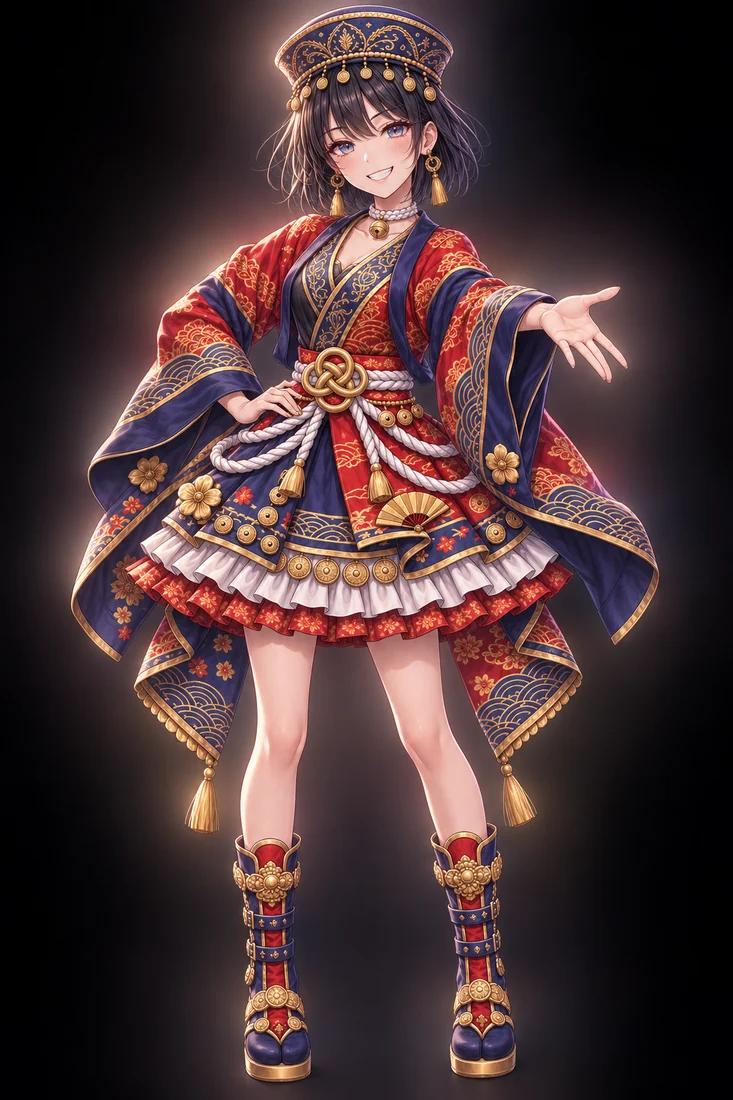
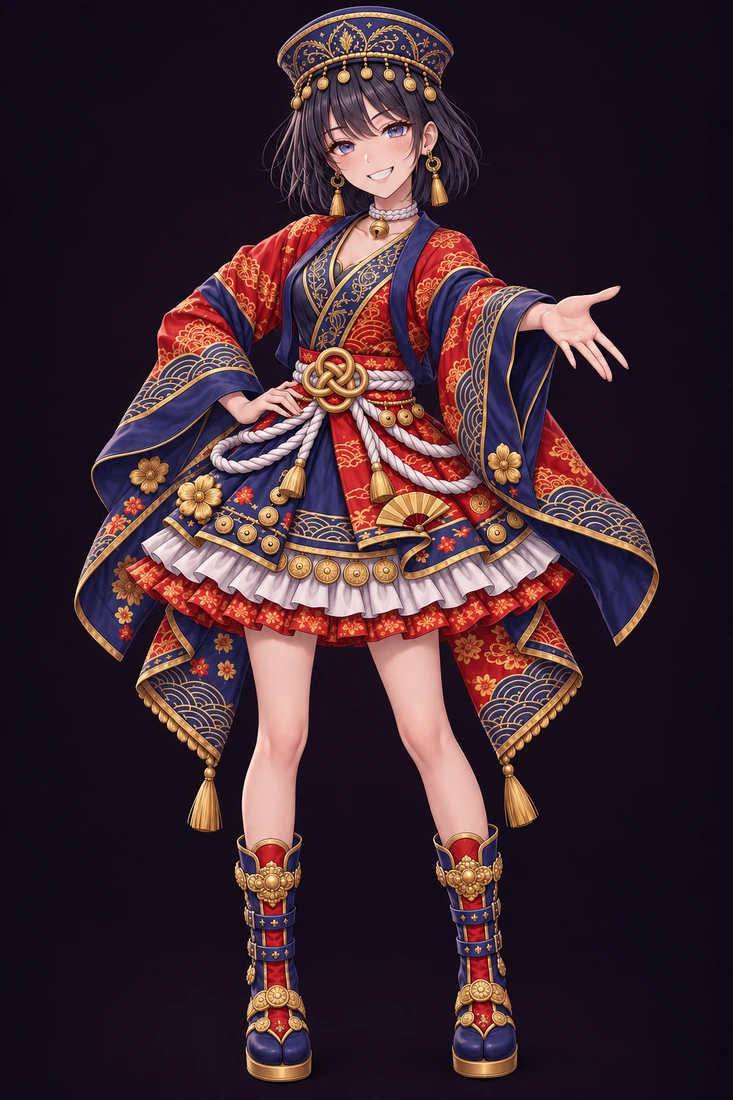
Unify all 16 idol portraits with soft lighting and restrained highlights

diff --git a/index.html b/index.html
@@ -621,7 +621,7 @@ let state=null,team=['kayo','machi','natsume'],leader='kayo',firstMode='random',
 let saved=null;try{saved=JSON.parse(localStorage.getItem(SAVE)||'null');if(saved?.version!==1||saved?.winner!==null)saved=null;}catch{}
 // Local artwork: six members, eighteen songs and ten events.
 const ARTWORK = {
-  "idol-ayame": "assets/art/idol-ayame.webp",
+  "idol-ayame": "assets/art/idol-ayame.webp?v=20261108-light",
   "song-ayame-1": "assets/art/song-ayame-1.webp",
   "song-ayame-2": "assets/art/song-ayame-2.webp",
   "song-ayame-3": "assets/art/song-ayame-3.webp",
@@ -638,45 +638,45 @@ const ARTWORK = {
   "event-scandal": "assets/art/event-scandal.webp",
   "event-buzz": "assets/art/event-buzz.webp",
 
-  "idol-nina": "assets/art/idol-nina.webp",
+  "idol-nina": "assets/art/idol-nina.webp?v=20261108-light",
   "song-nina-1": "assets/art/song-nina-1.webp",
   "song-nina-2": "assets/art/song-nina-2.webp",
   "song-nina-3": "assets/art/song-nina-3.webp",
   "event-nina": "assets/art/event-nina.webp",
   "item-teddy": "assets/art/item-teddy.webp",
 
-  "idol-moe": "assets/art/idol-moe.webp",
+  "idol-moe": "assets/art/idol-moe.webp?v=20261108-light",
   "song-moe-1": "assets/art/song-moe-1.webp",
   "song-moe-2": "assets/art/song-moe-2.webp",
   "song-moe-3": "assets/art/song-moe-3.webp",
   "event-moe": "assets/art/event-moe.webp",
-  "idol-hikari": "assets/art/idol-hikari.webp",
+  "idol-hikari": "assets/art/idol-hikari.webp?v=20261108-light",
   "song-hikari-1": "assets/art/song-hikari-1.webp",
   "song-hikari-2": "assets/art/song-hikari-2.webp",
   "song-hikari-3": "assets/art/song-hikari-3.webp",
   "event-hikari": "assets/art/event-hikari.webp",
-  "idol-aya": "assets/art/idol-aya.webp",
+  "idol-aya": "assets/art/idol-aya.webp?v=20261108-light",
   "song-aya-1": "assets/art/song-aya-1.webp",
   "song-aya-2": "assets/art/song-aya-2.webp",
   "song-aya-3": "assets/art/song-aya-3.webp",
   "event-aya": "assets/art/event-aya.webp",
-  "idol-akina": "assets/art/idol-akina.webp",
+  "idol-akina": "assets/art/idol-akina.webp?v=20261108-light",
   "song-akina-1": "assets/art/song-akina-1.webp?v=akina-pretext-1",
   "song-akina-2": "assets/art/song-akina-2.webp?v=akina-pretext-1",
   "song-akina-3": "assets/art/song-akina-3.webp?v=akina-pretext-1",
   "event-akina": "assets/art/event-akina.webp?v=akina-pretext-1",
-  "idol-emi": "assets/art/idol-emi.webp",
+  "idol-emi": "assets/art/idol-emi.webp?v=20261108-light",
   "song-emi-1": "assets/art/song-emi-1.webp",
   "song-emi-2": "assets/art/song-emi-2.webp",
   "song-emi-3": "assets/art/song-emi-3.webp",
   "event-emi": "assets/art/event-emi.webp",
   "fan-believer": "assets/art/fan-believer.webp",
   "fan-anti": "assets/art/fan-anti.webp",
-  "idol-haru": "assets/art/idol-haru.webp",
+  "idol-haru": "assets/art/idol-haru.webp?v=20261108-light",
   "event-haru": "assets/art/event-haru.webp",
-  "idol-hakka": "assets/art/idol-hakka.webp",
+  "idol-hakka": "assets/art/idol-hakka.webp?v=20261108-light",
   "event-hakka": "assets/art/event-hakka.webp",
-  "idol-homura": "assets/art/idol-homura.webp",
+  "idol-homura": "assets/art/idol-homura.webp?v=20261108-light",
   "event-homura": "assets/art/event-homura.webp",
   "song-haru-1": "assets/art/song-haru-1.webp",
   "song-haru-2": "assets/art/song-haru-2.webp",
@@ -722,12 +722,12 @@ const ARTWORK = {
   "event-switch": "assets/art/event-switch.webp",
   "event-trouble": "assets/art/event-trouble.webp",
   "event-wit": "assets/art/event-wit.webp",
-  "idol-kayo": "assets/art/idol-kayo.webp",
-  "idol-machi": "assets/art/idol-machi.webp",
-  "idol-natsume": "assets/art/idol-natsume.webp",
-  "idol-shio": "assets/art/idol-shio.webp",
-  "idol-rai": "assets/art/idol-rai.webp",
-  "idol-hana": "assets/art/idol-hana.webp",
+  "idol-kayo": "assets/art/idol-kayo.webp?v=20261108-light",
+  "idol-machi": "assets/art/idol-machi.webp?v=20261108-light",
+  "idol-natsume": "assets/art/idol-natsume.webp?v=20261108-light",
+  "idol-shio": "assets/art/idol-shio.webp?v=20261108-light",
+  "idol-rai": "assets/art/idol-rai.webp?v=20261108-light",
+  "idol-hana": "assets/art/idol-hana.webp?v=20261108-light",
   "event-overcome": "assets/art/event-overcome.webp",
   "event-viewing": "assets/art/event-viewing.webp",
   "event-mc": "assets/art/event-mc.webp",
